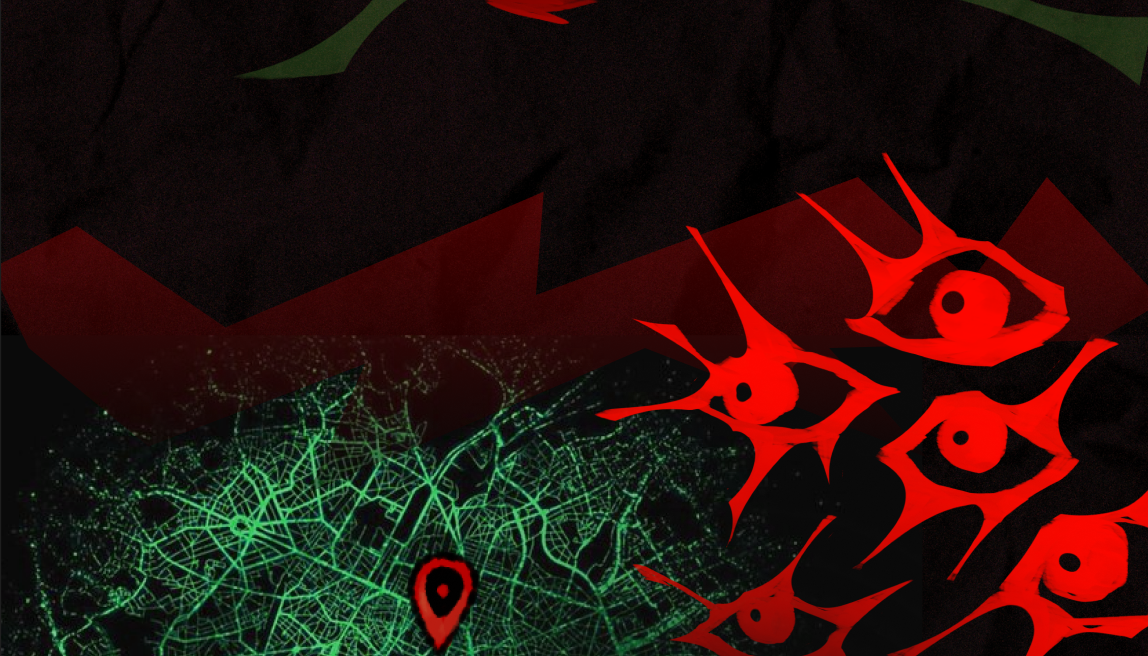
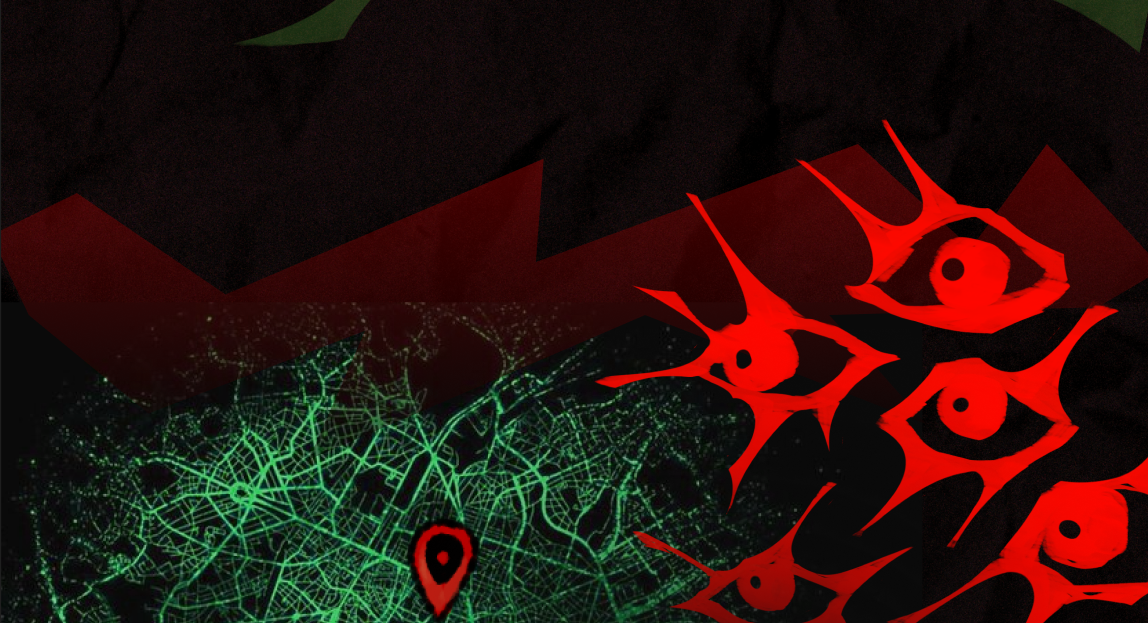
fixed

diff --git a/styles/layout.css b/styles/layout.css
@@ -194,8 +194,8 @@ body {
 .services {
     position: relative;
     width: 100%;
-    height: 100vh;
-    height: 100svh;
+    aspect-ratio: 970 / 773;
+    height: auto;
     min-height: 600px;
     overflow: hidden;
     isolation: isolate;
@@ -271,8 +271,8 @@ body {
 .fear-story {
     position: relative;
     width: 100%;
-    height: 100vh;
-    height: 100svh;
+    aspect-ratio: 1112 / 710; 
+    height: auto;
     min-height: 600px;
     overflow: hidden;
     isolation: isolate;
@@ -362,8 +362,8 @@ body {
 .location-first {
     position: relative;
     width: 100%;
-    height: 100vh;
-    height: 100svh;
+    aspect-ratio: 1148 / 620;
+    height: auto;
     min-height: 600px;
     overflow: hidden;
     isolation: isolate;
@@ -416,8 +416,8 @@ body {
 .location-second {
     position: relative;
     width: 100%;
-    height: 100vh;
-    height: 100svh;
+    aspect-ratio: 1152 / 693;
+    height: auto;
     min-height: 600px;
     overflow: hidden;
     isolation: isolate;
@@ -501,4 +501,3 @@ body {
     text-align: right;
     z-index: 4;
 }
-
